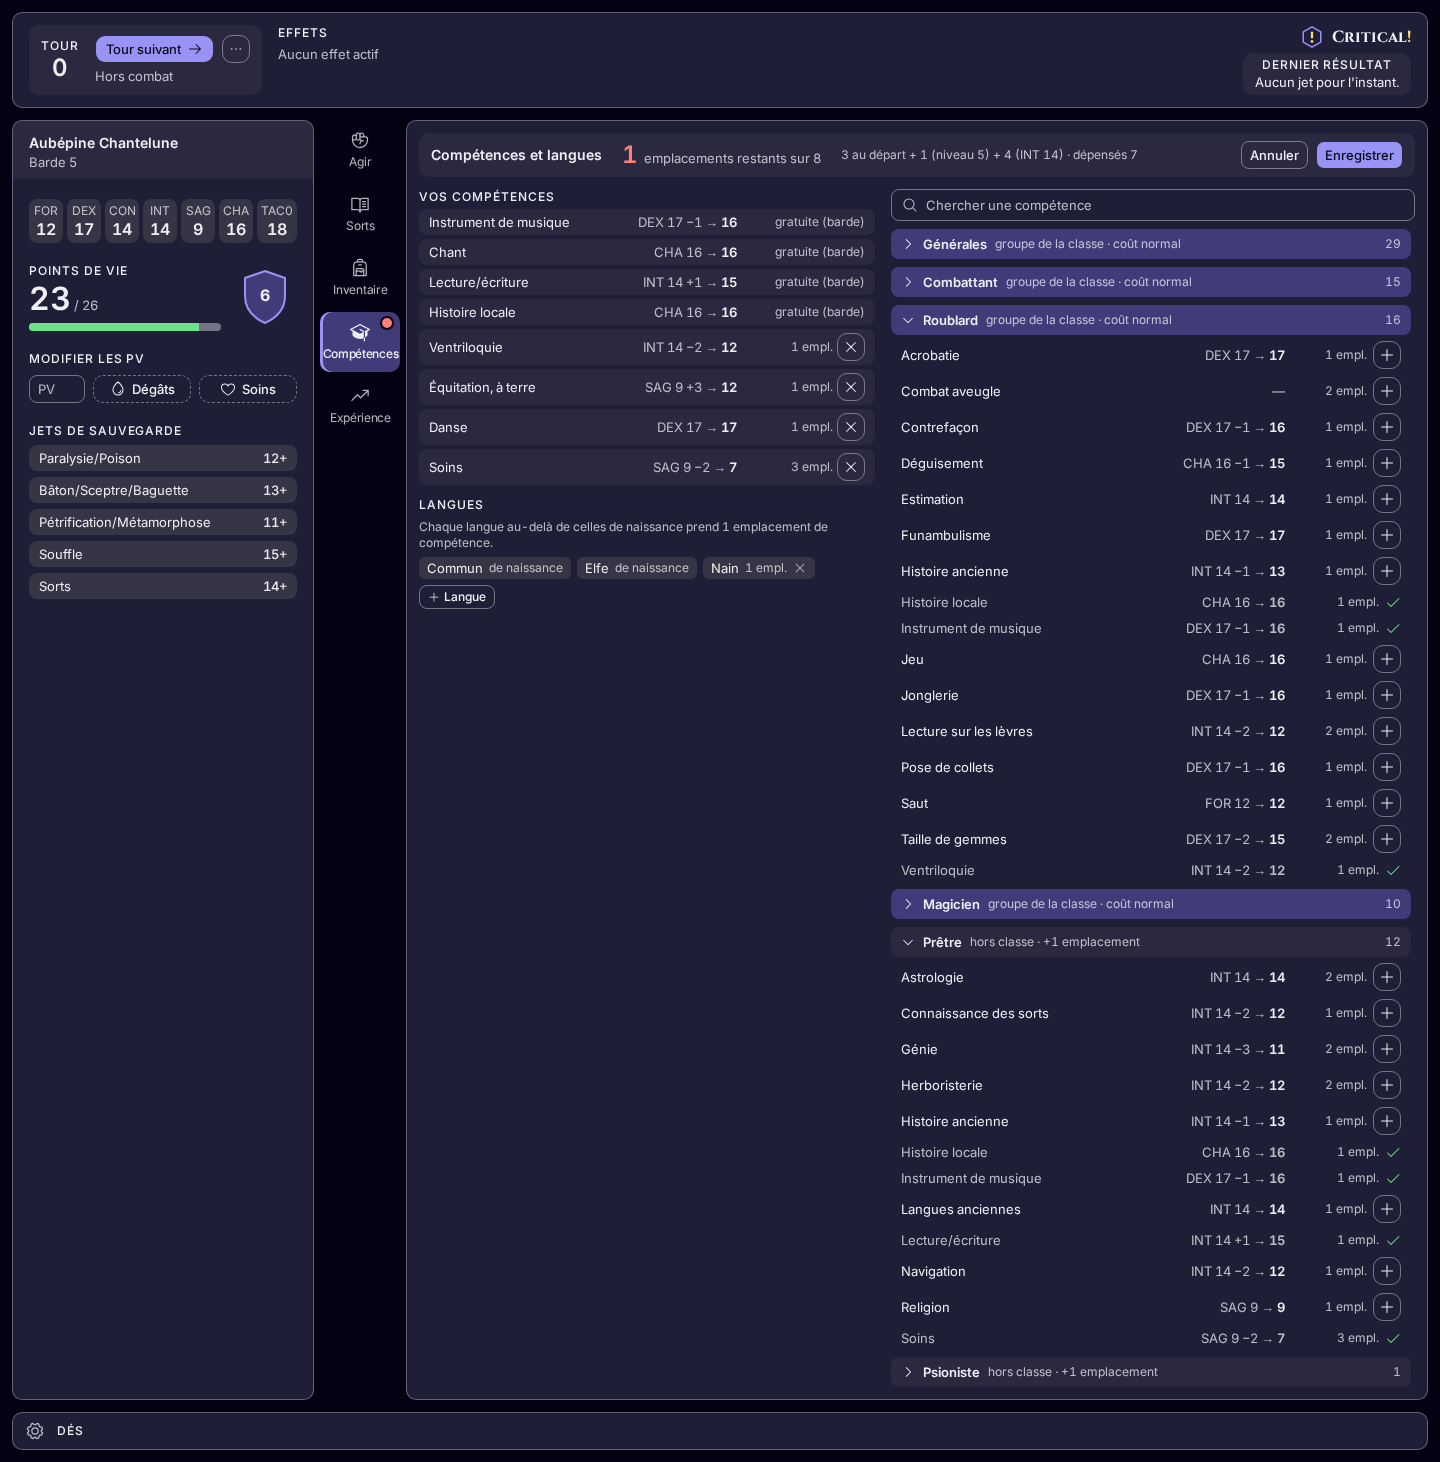
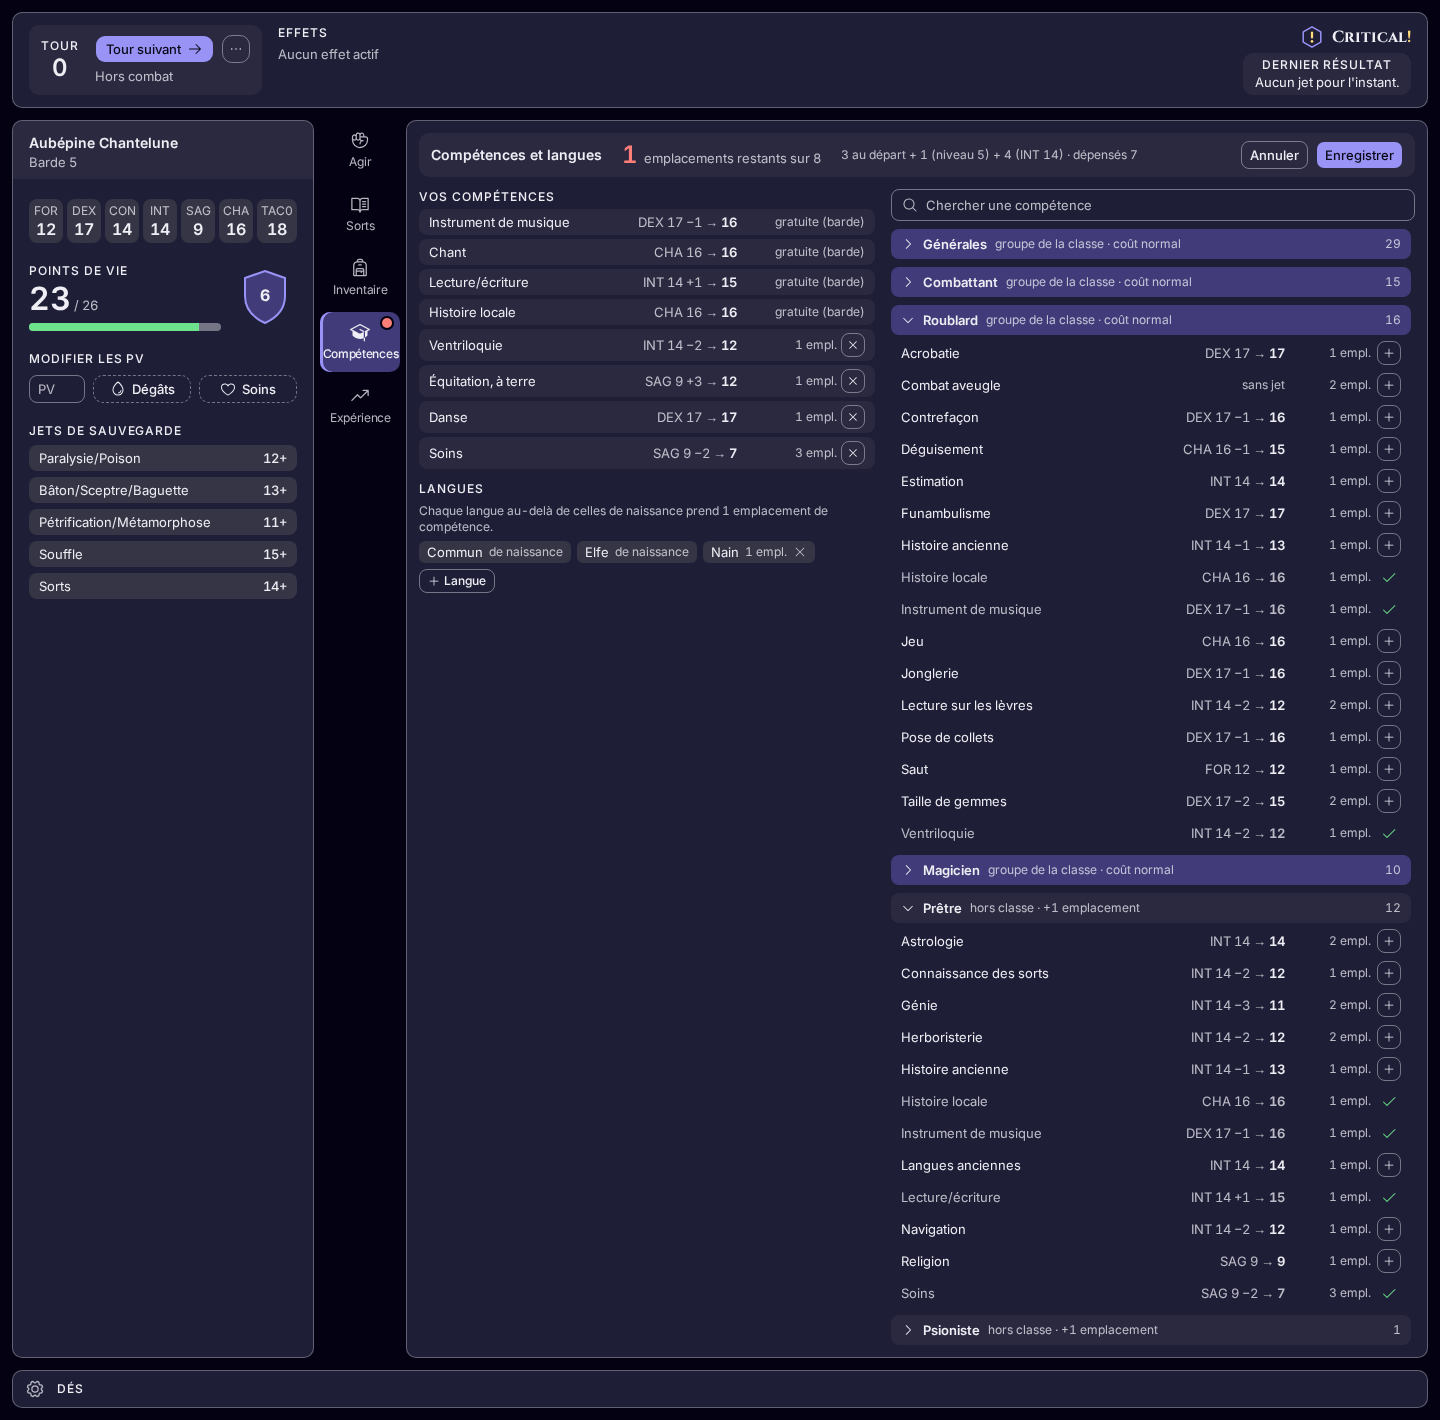
docs(design): Skills round 2, layout A and sliders kept, the to-spend signal as a dot or a red-edged Edit button; gallery renamed gallery.html (tailnet 404)

diff --git a/web/design/skills/screens.tsx b/web/design/skills/screens.tsx
@@ -5,7 +5,6 @@ import {
   CaretDown,
   Check,
   MagnifyingGlass,
-  Minus,
   PencilSimple,
   Plus,
   Prohibit,
@@ -56,19 +55,20 @@ function Target({ who, p }: { who: Fixture; p: NonWeapon }) {
   );
 }
 
-/** What is left: a quiet "8 / 8" when all is spent, a red "1 à dépenser" when some is left. */
-function Left({ left, unit }: { left: number; unit: [string, string] }) {
-  if (left <= 0)
-    return (
-      <span className="flex items-center gap-1 text-label text-ink-muted">
-        <Check aria-hidden className="size-3.5" />
-        {tr("tout est dépensé", "all spent")}
-      </span>
-    );
+/** How a section says it has something to spend (round 2: the user found the "1 emplacements à
+ * dépenser" pill too wordy, since the budget line already counts). Two proposals:
+ * - "dot": a small red dot after the title, no text; nothing once all is spent.
+ * - "button": no mark by the title; the section's Modifier button itself turns red-edged with a dot. */
+type Signal = "dot" | "button";
+
+function Left({ left, signal }: { left: number; signal: Signal }) {
+  if (left <= 0 || signal !== "dot") return null;
   return (
-    <span className="rounded-full bg-danger px-2 py-0.5 text-label font-semibold text-on-accent">
-      {left} {l2(unit)} {tr("à dépenser", "to spend")}
-    </span>
+    <span
+      role="img"
+      aria-label={tr("à dépenser", "to spend")}
+      className="size-2.5 shrink-0 rounded-full bg-danger"
+    />
   );
 }
 
@@ -98,12 +98,18 @@ function Card({
   );
 }
 
-const Edit = () => (
-  <Button size="sm">
-    <PencilSimple aria-hidden />
-    {tr("Modifier", "Edit")}
-  </Button>
-);
+function Edit({ pending = false }: { pending?: boolean }) {
+  return (
+    <Button size="sm" className={cn(pending && "border-danger")}>
+      {pending ? (
+        <span aria-hidden className="size-2 rounded-full bg-danger" />
+      ) : (
+        <PencilSimple aria-hidden />
+      )}
+      {tr("Modifier", "Edit")}
+    </Button>
+  );
+}
 
 /** The slot line: "Emplacements 7 / 8 · 3 au départ + …". */
 function Budget({
@@ -133,12 +139,12 @@ const POINTS: [string, string] = ["points", "points"];
 
 // ---------- read views ----------
 
-function WeaponsRead({ who, action }: { who: Fixture; action?: ReactNode }) {
+function WeaponsRead({ who, action, signal }: { who: Fixture; action?: ReactNode; signal: Signal }) {
   const left = who.weaponSlots.available - spentWeapon(who);
   return (
     <Card
       title={tr("Maîtrises d'armes", "Weapon proficiencies")}
-      aside={<Left left={left} unit={SLOTS} />}
+      aside={<Left left={left} signal={signal} />}
       action={action}
     >
       <Budget
@@ -176,16 +182,18 @@ function ProficienciesRead({
   who,
   action,
   className,
+  signal,
 }: {
   who: Fixture;
   action?: ReactNode;
   className?: string;
+  signal: Signal;
 }) {
   const left = who.nonWeaponSlots.available - spentNonWeapon(who);
   return (
     <Card
       title={tr("Compétences et langues", "Proficiencies and languages")}
-      aside={<Left left={left} unit={SLOTS} />}
+      aside={<Left left={left} signal={signal} />}
       action={action}
       className={className}
     >
@@ -237,10 +245,9 @@ function SkillTable({
   className,
 }: {
   set: SkillSet;
-  edit?: "steppers" | "slider";
+  edit?: "slider";
   className?: string;
 }) {
-  const left = set.available - spentPoints(set);
   const th = "px-2 py-1 text-right font-medium text-label text-ink-muted";
   const td = "px-2 py-1.5 text-right tabular-nums";
   return (
@@ -266,9 +273,7 @@ function SkillTable({
             </td>
             <td className={td}>{s.base}</td>
             <td className={cn(td, edit && "w-[1%] text-center")}>
-              {edit === "steppers" ? (
-                <Stepper value={s.points} canAdd={left > 0} />
-              ) : edit === "slider" ? (
+              {edit === "slider" ? (
                 <Slider skill={s} set={set} />
               ) : (
                 s.points
@@ -287,12 +292,12 @@ function SkillTable({
   );
 }
 
-function SkillsRead({ set, action }: { set: SkillSet; action?: ReactNode }) {
+function SkillsRead({ set, action, signal }: { set: SkillSet; action?: ReactNode; signal: Signal }) {
   const left = set.available - spentPoints(set);
   return (
     <Card
       title={l2(set.name)}
-      aside={<Left left={left} unit={POINTS} />}
+      aside={<Left left={left} signal={signal} />}
       action={action}
     >
       <Budget
@@ -318,24 +323,6 @@ function SkillsRead({ set, action }: { set: SkillSet; action?: ReactNode }) {
 
 // ---------- controls ----------
 
-function Stepper({ value, canAdd }: { value: number; canAdd: boolean }) {
-  return (
-    <span className="inline-flex items-center gap-1">
-      <Button size="icon" variant="quiet" aria-label="−5" disabled={value === 0}>
-        <Minus aria-hidden />
-      </Button>
-      <span className="flex h-7 w-11 items-center justify-center rounded-md border border-input text-body tabular-nums">
-        {value}
-      </span>
-      <Button size="icon" variant="quiet" aria-label="+5" disabled={!canAdd}>
-        <Plus aria-hidden />
-      </Button>
-    </span>
-  );
-}
-
-/** A slider over the points a skill may take: 0 to its limit (the per-skill cap, or what reaches
- * 95 %, never more than what is left). The filled part is the points; the tick is the limit. */
 function Slider({ skill, set }: { skill: RogueSkill; set: SkillSet }) {
   const left = set.available - spentPoints(set);
   const to95 = 95 - (percent(skill) - skill.points);
@@ -567,7 +554,7 @@ function ProficiencyEditor({ who, open }: { who: Fixture; open: Group[] }) {
   );
 }
 
-function PointsEditor({ set, control }: { set: SkillSet; control: "steppers" | "slider" }) {
+function PointsEditor({ set, control }: { set: SkillSet; control: "slider" }) {
   return (
     <div className="flex min-h-0 flex-1 flex-col gap-3">
       <EditorBar
@@ -603,60 +590,26 @@ function Stage({ children }: { children: ReactNode }) {
   );
 }
 
-/** Variant A: everything read at a glance; one Edit per section turns the stage into its editor. */
-function OverviewA({ who }: { who: Fixture }) {
+/** Variant A (chosen by the user, round 2): everything read at a glance; one Edit per section turns
+ * the stage into its editor. `signal`: how a section with something to spend says so. */
+function OverviewA({ who, signal }: { who: Fixture; signal: Signal }) {
+  const edit = (left: number) => <Edit pending={signal === "button" && left > 0} />;
   return (
     <Dashboard activity="skills" who={who}>
       <Stage>
         <div className="grid grid-cols-2 items-start gap-3">
-          <ProficienciesRead who={who} action={<Edit />} className="row-span-2" />
-          <WeaponsRead who={who} action={<Edit />} />
+          <ProficienciesRead
+            who={who}
+            signal={signal}
+            action={edit(who.nonWeaponSlots.available - spentNonWeapon(who))}
+            className="row-span-2"
+          />
+          <WeaponsRead who={who} signal={signal} action={edit(who.weaponSlots.available - spentWeapon(who))} />
           {who.sets.map((s) => (
-            <SkillsRead key={s.id} set={s} action={<Edit />} />
+            <SkillsRead key={s.id} set={s} signal={signal} action={edit(s.available - spentPoints(s))} />
           ))}
         </div>
       </Stage>
-    </Dashboard>
-  );
-}
-
-/** Variant B: one tab per section, each tab its editor, always editable. */
-function TabsB({ who, tab }: { who: Fixture; tab: "proficiencies" | "points" }) {
-  const set = who.sets[0];
-  const tabs: [string, string, number, string][] = [
-    ["weapons", tr("Maîtrises d'armes", "Weapon proficiencies"), who.weaponSlots.available - spentWeapon(who), ""],
-    ["proficiencies", tr("Compétences et langues", "Proficiencies and languages"), who.nonWeaponSlots.available - spentNonWeapon(who), ""],
-    ...(set ? [["points", l2(set.name), set.available - spentPoints(set), ""] as [string, string, number, string]] : []),
-  ];
-  return (
-    <Dashboard activity="skills" who={who}>
-      <div className="zone-card flex min-h-0 min-w-0 flex-1 flex-col overflow-hidden">
-        <div className="flex shrink-0 gap-1 border-b border-border px-3 pt-2">
-          {tabs.map(([id, label, left]) => (
-            <span
-              key={id}
-              className={cn(
-                "flex items-center gap-2 rounded-t-md px-3 py-2 text-body",
-                id === tab ? "border-b-2 border-tint font-medium text-ink" : "text-ink-muted",
-              )}
-            >
-              {label}
-              {left > 0 && (
-                <span className="rounded-full bg-danger px-1.5 text-label font-semibold text-on-accent tabular-nums">
-                  {left}
-                </span>
-              )}
-            </span>
-          ))}
-        </div>
-        <div className="flex min-h-0 flex-1 flex-col gap-3 p-3">
-          {tab === "proficiencies" ? (
-            <ProficiencyEditor who={who} open={["rogue"]} />
-          ) : (
-            <PointsEditor set={set} control="steppers" />
-          )}
-        </div>
-      </div>
     </Dashboard>
   );
 }
@@ -670,16 +623,11 @@ function EditorScreen({ who, children, lit }: { who: Fixture; children: ReactNod
 }
 
 export const SCREENS: Record<string, () => ReactNode> = {
-  "a-overview-bard": () => <OverviewA who={BARD} />,
+  "a-overview-bard-dot": () => <OverviewA who={BARD} signal="dot" />,
+  "a-overview-bard-button": () => <OverviewA who={BARD} signal="button" />,
   "a-edit-proficiencies-bard": () => (
     <EditorScreen who={BARD}>
       <ProficiencyEditor who={BARD} open={["rogue", "priest"]} />
-    </EditorScreen>
-  ),
-  "b-tabs-proficiencies-bard": () => <TabsB who={BARD} tab="proficiencies" />,
-  "points-steppers-bard": () => (
-    <EditorScreen who={BARD} lit={["dex"]}>
-      <PointsEditor set={BARD.sets[0]} control="steppers" />
     </EditorScreen>
   ),
   "points-slider-bard": () => (

diff --git a/docs/design/skills/shots/gallery.html b/docs/design/skills/shots/gallery.html
@@ -1,0 +1,35 @@
+<!doctype html><meta charset="utf-8"><title>Skills design round (CRI-407)</title>
+<style>:root{color-scheme:dark;
+--bg:#0d1117;--fg:#e6edf3;--muted:#9198a1;--border:#9198a180;--link:#79c0ff;--code-bg:#161b22;--add-bg:#3fb95044;--del-bg:#f8514940;--hunk:#79c0ff;--reply:#3fb950;--none:#ff7b72;}
+body{font:15px/1.45 system-ui,sans-serif;max-width:1100px;margin:2em auto;padding:0 1em;background:var(--bg);color:var(--fg)}
+h1,h2,h3{color:var(--fg)}
+a{color:var(--link)}
+table{border-collapse:collapse}
+th,td{border:1px solid var(--border);padding:.25em .6em}
+code,pre{background:var(--code-bg);color:var(--fg);font:12px/1.35 ui-monospace,monospace}
+pre{overflow:auto;border:1px solid var(--border);border-radius:4px;padding:.5em}
+section.t{border:1px solid var(--border);border-radius:8px;margin:1.5em 0;padding:0 1em 1em}
+h2{font-size:1.1em}
+.box{white-space:pre-wrap;word-wrap:break-word;border-left:4px solid var(--border);padding:.4em .8em;margin:.5em 0}
+.reply{border-left-color:var(--reply)}
+.none{border-left-color:var(--none);font-style:italic}
+.who{font-weight:600}
+pre.diff span{display:block}
+.add{background:var(--add-bg)}
+.del{background:var(--del-bg)}
+.hunk{color:var(--hunk)}
+.meta,.small{color:var(--muted)}
+.small{font-size:.9em}
+
+body{max-width:1500px}img{width:100%;border:1px solid var(--border);border-radius:6px}
+nav{position:sticky;top:0;background:var(--bg);padding:8px 0;font-size:13px}nav a{margin-right:10px}</style>
+<h1>Skills design round (CRI-407)</h1>
+<p class="small">Today's app, for comparison: <a href="../baseline/skills--fr.png">skills</a> · <a href="../baseline/skills-full--fr.png">skills-full</a> · <a href="../baseline/act-skills--fr.png">act-skills</a></p><nav><a href="#a-overview-bard-dot">a-overview-bard-dot</a> <a href="#a-overview-bard-button">a-overview-bard-button</a> <a href="#a-edit-proficiencies-bard">a-edit-proficiencies-bard</a> <a href="#points-slider-bard">points-slider-bard</a></nav>
+<section id="a-overview-bard-dot"><h2><a href="#a-overview-bard-dot">a-overview-bard-dot</a> — 1 · A (choisie) — à dépenser : un point rouge après le titre, sans texte</h2>
+<p class="small"><a href="a-overview-bard-dot--en-1440x900.png?v=mwk9uiyo">en 1440x900</a> · <a href="a-overview-bard-dot--fr-1920x1080.png?v=mwk9uiyo">fr 1920x1080</a> · <a href="a-overview-bard-dot--en-1920x1080.png?v=mwk9uiyo">en 1920x1080</a></p><a href="a-overview-bard-dot--fr-1440x900.png?v=mwk9uiyo"><img src="a-overview-bard-dot--fr-1440x900.png?v=mwk9uiyo" alt="a-overview-bard-dot" loading="lazy"></a></section>
+<section id="a-overview-bard-button"><h2><a href="#a-overview-bard-button">a-overview-bard-button</a> — 1 · A (choisie) — à dépenser : le bouton Modifier bordé de rouge, avec un point</h2>
+<p class="small"><a href="a-overview-bard-button--en-1440x900.png?v=mwk9uiyo">en 1440x900</a> · <a href="a-overview-bard-button--fr-1920x1080.png?v=mwk9uiyo">fr 1920x1080</a> · <a href="a-overview-bard-button--en-1920x1080.png?v=mwk9uiyo">en 1920x1080</a></p><a href="a-overview-bard-button--fr-1440x900.png?v=mwk9uiyo"><img src="a-overview-bard-button--fr-1440x900.png?v=mwk9uiyo" alt="a-overview-bard-button" loading="lazy"></a></section>
+<section id="a-edit-proficiencies-bard"><h2><a href="#a-edit-proficiencies-bard">a-edit-proficiencies-bard</a> — 1 · A, après Modifier : l'éditeur des compétences prend la scène</h2>
+<p class="small"><a href="a-edit-proficiencies-bard--en-1440x900.png?v=mwk9uiyo">en 1440x900</a> · <a href="a-edit-proficiencies-bard--fr-1920x1080.png?v=mwk9uiyo">fr 1920x1080</a> · <a href="a-edit-proficiencies-bard--en-1920x1080.png?v=mwk9uiyo">en 1920x1080</a></p><a href="a-edit-proficiencies-bard--fr-1440x900.png?v=mwk9uiyo"><img src="a-edit-proficiencies-bard--fr-1440x900.png?v=mwk9uiyo" alt="a-edit-proficiencies-bard" loading="lazy"></a></section>
+<section id="points-slider-bard"><h2><a href="#points-slider-bard">points-slider-bard</a> — 2 · Curseur (choisi) : points de talent avec un curseur, sa limite et ce que les points restants permettent</h2>
+<p class="small"><a href="points-slider-bard--en-1440x900.png?v=mwk9uiyo">en 1440x900</a> · <a href="points-slider-bard--fr-1920x1080.png?v=mwk9uiyo">fr 1920x1080</a> · <a href="points-slider-bard--en-1920x1080.png?v=mwk9uiyo">en 1920x1080</a></p><a href="points-slider-bard--fr-1440x900.png?v=mwk9uiyo"><img src="points-slider-bard--fr-1440x900.png?v=mwk9uiyo" alt="points-slider-bard" loading="lazy"></a></section>
